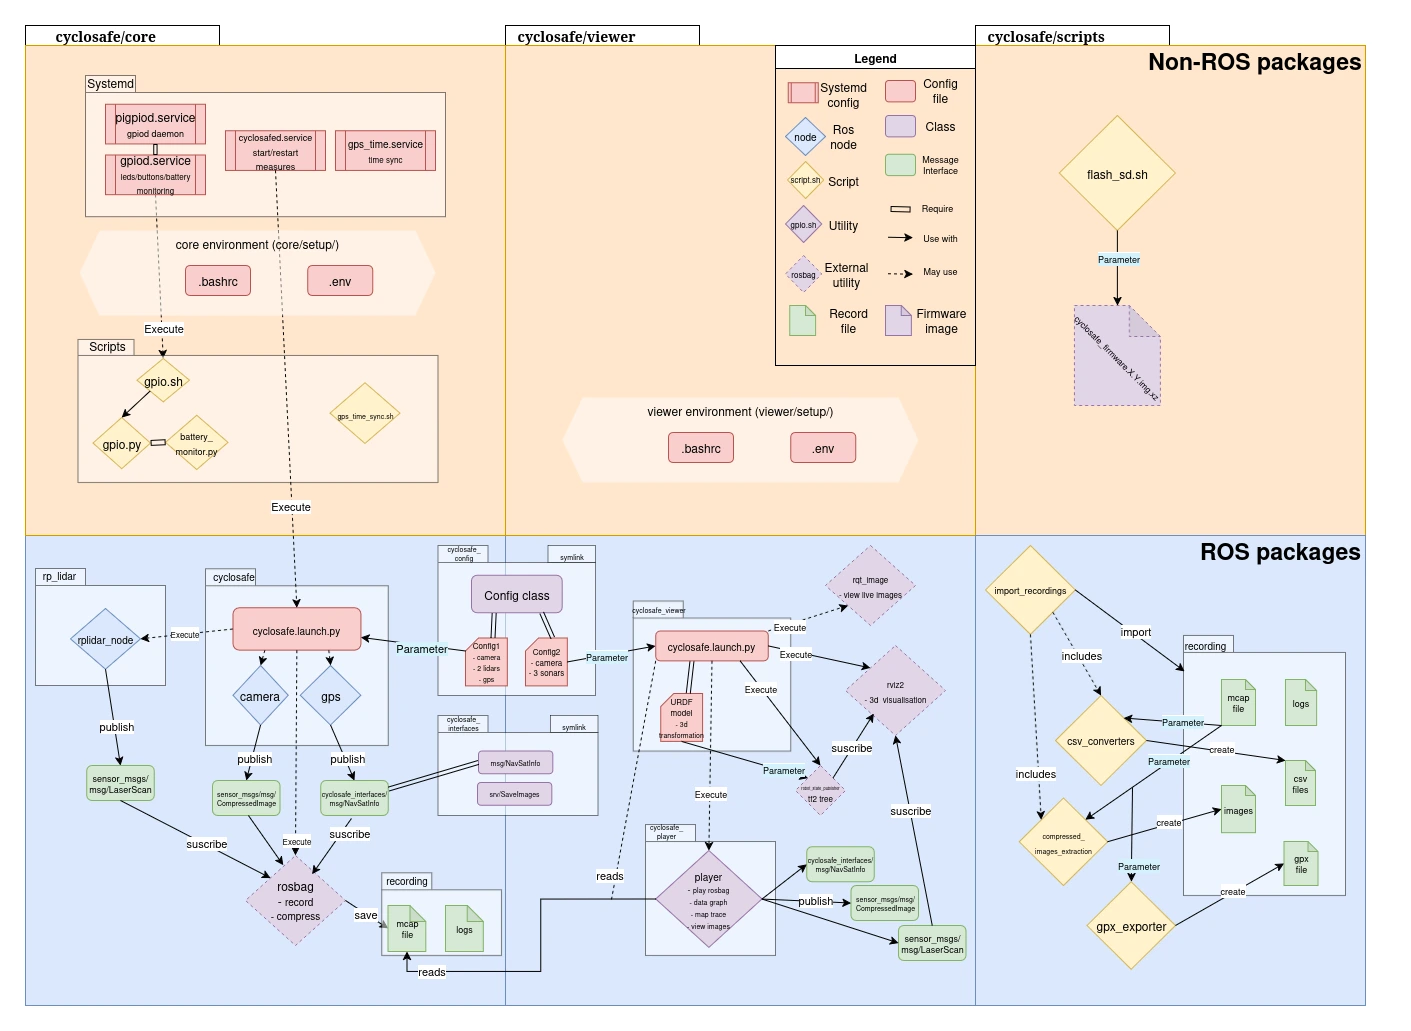
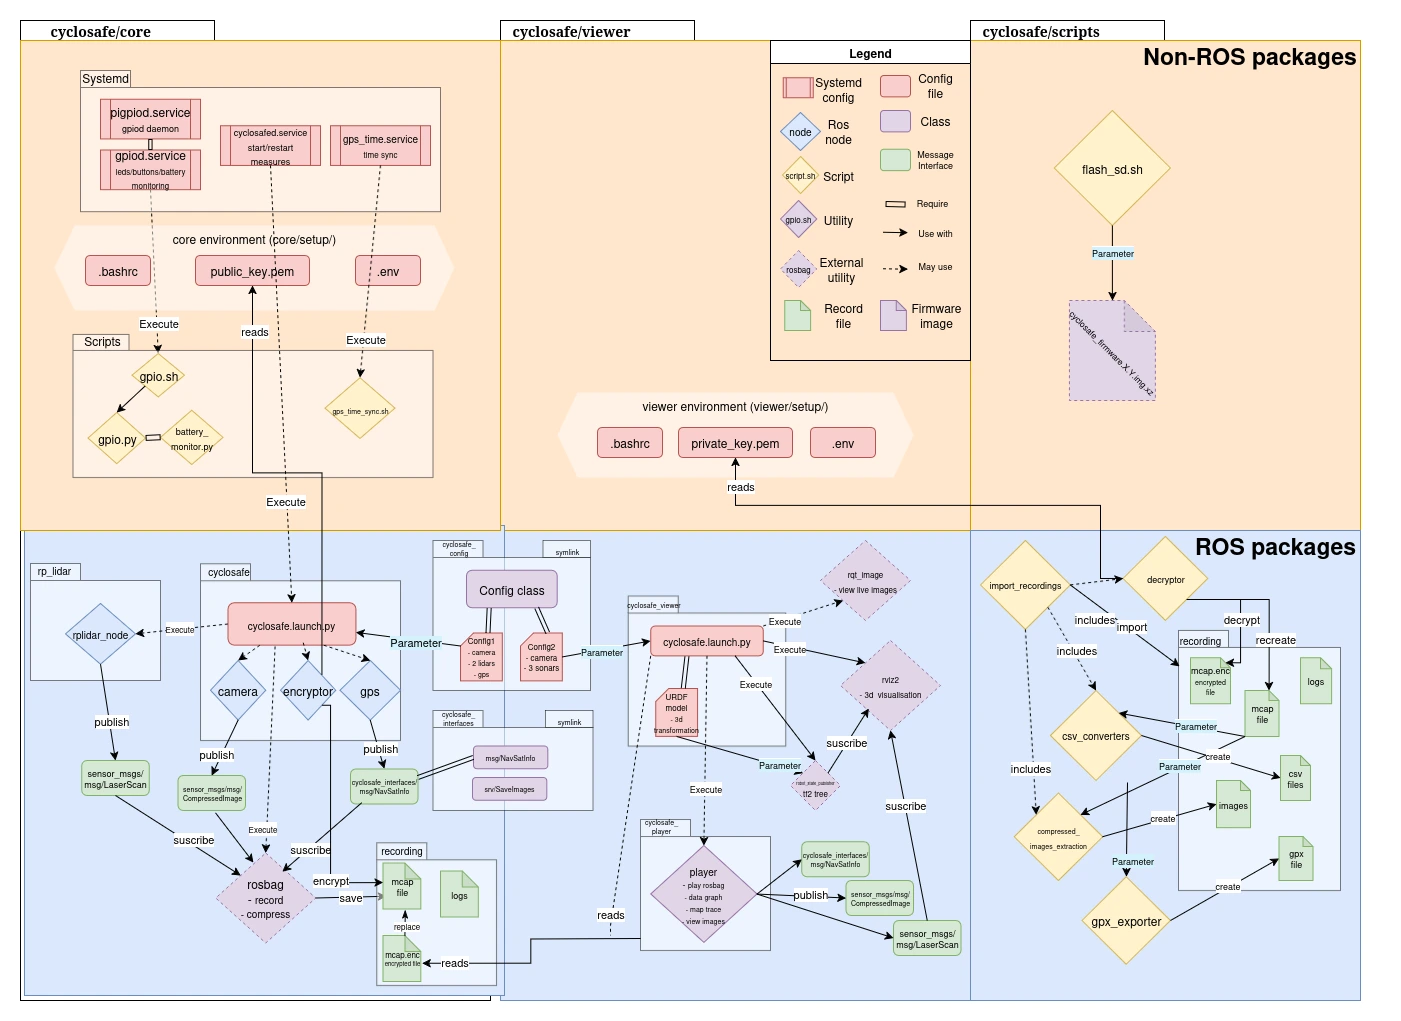
readme and diagrams updated to documente encryption

diff --git a/core/src/cyclosafe/README.md b/core/src/cyclosafe/README.md
@@ -6,6 +6,7 @@ Contient :
 - l'ensemble des noeuds de capteur écrits en python, à savoir :
 	- [**noeud gps**](#gpspy) publiant des *cyclosafe_interfaces/msg/NavSatInfo*
 	- [**noeud caméra**](#camera_pipy) publiant des *sensor_msgs/msg/CompressedImage* sur le topic ***
+	- [**noeud d'encryption**](src/cyclosafe/README.md#encryptor) : surveille les rosbag créés dans un dossier donné, les compresse et les encrypte au fur et à mesure qu'ils sont créés.
 - l'implémentation de classes utilisées par des noeuds ou d'autres packages :
 	- [**ASerialSensor**](#aserialsensor) : modèle de noeud générique parsant des données envoyées via serial
 	- [**ACamera**](#acamera) : modèle de noeud caméra0
@@ -174,6 +175,57 @@ Obsolete car :
 > - **défaut** : *0.0*
 > - **unité** : secondes depuis l'epoch
 
+## encryptor.py
+
+Surveille les rosbag (fichiers `.mcap`) créés dans un dossier et lorsqu'ils sont stables (leur taille ne bouge plus), les compresse et les encrypte vers un fichier `.mcap.enc`.
+
+Le chiffrement utilisé est un chiffrement RSA + AES. un clé AES de 256 bits est générée pour chaque fichier et utilisée pour crypter la totalité du fichier.
+Cette clé est ensuite cryptée avec la clé public RSA du projet et la clé AES chiffrée est placée en cair dans le header du fichier encrypté. 
+Les fichiers sont compressés avec zstd avant d'être encryptés.
+
+Un header contenant des metadata sur les fichiers d'origine est écrit  au début de chaque fichier `.enc`.
+
+Si l'encryption réussie, le fichier original est **suprimé**.
+
+Ce header contient :
+
+~~~
+'original_name': file_path.name,
+'compression_method': 'zstd',
+'encryption_method': 'RSA-OAEP + AES-256-CBC',
+'key_length': len(encrypted_aes_key),
+'iv_length': len(iv),
+'timestamp': time.time(), #encryption time
+'original_size': original_size,
+'compressed_size': len(data),
+~~~
+
+### Paramètres
+
+> **watch_dir** : string
+> - chemin sur lequel sont surveillés et encryptés les rosbag
+> - **requis**
+
+> **public_key_path** : string
+> - chemin vers le fichier `.pem` contenant la clé RSA publique qui sera utilisée pour chiffrer la clé AES.
+> - **si omis**: la variable d'environnement `$PUBLIC_KEY_PATH` sera lue afin de déterminé le chemin à utiliser.
+
+### Example
+
+~~~
+ros2 run cyclosafe encryptor --ros-args -p watch_dir:=$CYCLOSAFE_RECORD/20250821-111521/bag -p public_key_path:=$PUBLIC_KEY_PATH
+~~~
+
+### Stabilité des bags
+
+Les bags sont encryptés seulement lorsqu'ils sont détectés comme étant **stables**, c'est à dire lorsque leur taille ne varie plus pendant un certain laps de temps. Cet intervalle de temps est défini par défaut à `15s` mais est réduit à `3s` lors de la fermeture du programme.
+
+### Fermeture du programme
+
+Lorsque le noeud est arrêté (par l'utilisateur ou par le système en cas d'un appui sur le bouton d'extinction), il arrête de surveiller les dossiers et fait en sorte d'encrypter les fichiers non encryptés restant dans le dossier. le `stability time` est réduit à `3s`.
+
+Si le programme est fermé alors qu'il n'a pas eu le temps d'encrypter tous les fichiers, les fichiers restants resteront intouchées et  lisibles par l'utilisateur.
+
 # Classes
 
 ## ASerialSensor
@@ -294,21 +346,17 @@ ros2 launch cyclosafe cyclsoafe.launch.py record:=true save:=false
 
 > **record** : str
 > - défaut: **"false""**
-> - si **true**, le programme **rosbag record** sera lancé et l'ensemble des messages publiés par les noeuds seront enregistrés dans un rosbag.
+> - si **true**, le programme **rosbag record** sera lancé et l'ensemble des messages publiés par les noeuds seront enregistrés dans un rosbag compressé. Si `encrypt:=true`, le programme **rosbag record** ne compressera pas les rosbag car c'est à l'encryptor de s'en occuper.
+
+> **encrypt** : str
+> - défaut: **"true""**
+> - si **true**, [le noeud encryptor](#encryptorpy) sera lancé pour compresser et encrypter les bags. Ne peut-être utilisé qu'avec `record:=true`.
 
 > **out_path** : str
 > - défaut: **""**
 > - indique le répertoire d'enregistrement du dossier
 > - si **""**,  le répertoire utilisé correspond à la variable d'environnement **$CYCLOSAFE_RECORD**
 > - le nom du dossier contenant les enregistrement sera: ***out_path/YYYYMMDD-HHMMSS***
-
-> **save** : str
-> - défaut: **"false""**
-> - si **true**, le noeud [**hub**](../cyclosafe_hub/README.md) sera démarré et enregistrera les mesures dans des fichiers isolés au format CSV.
-> - **Obsolete** : non mis à jour depuis longtemps
-> 	- gère les données publiées sous forme de *sensors_msgs/msg/range* et les images
-> 	- ne gère que les données gps publiées sous forme de *sensor_msgs/msg/NavSatFix* (et non de *cyclosafe_interfaces/msg/NavSatInfo*)
-> 	- contrairement au rosbag, ne compresse pas les données
 
 > **log_level** : str
 > - défaut: **"info""**
@@ -340,14 +388,15 @@ La structure de [**cyclosafe.launch.py**](launch/cyclosafe.launch.py) n'est pas 
 1. **Execution de la fonction opaque launch_setup()** avec le contexte (cad. les arguments transmis avec la commande **ros2 launch cyclosafe cyclosafe.launch.py [...args])**
 2. **Résolution des arguments**
 3. **Prise du start_time**, valeur qui sera transmise en paramètre à chacun des noeuds lancés
-4. **Optionnel : lancement de l'enregistrement du rosbag** si l'argument **record** est à **true**
-5. **Optionnel : lancement du noeud hub** si l'argument **save** est à **true**
-6. **Lancement de chaque noeud** à partir de la liste des capteurs importée depuis **config.py**
+4. **Optionnel si l'argument record** est à **true** : 
+      - lancement de l'enregistrement du rosbag avec `ros2 bag record`.
+      - si `encrypt:=true` : lancement du noeud encryptor pour compresser et encrypter les rosbag.
+5. **Lancement de chaque noeud** à partir de la liste des capteurs importée depuis **config.py**
    - les noeuds avec **enable=false** sont ignorés
    - **start_time** est transmis à chaque noeud
    - un délai est éventuellement ajouté en fonction de l'agument **delay**
    - le **log_level** associé au noeud est ajusté sur celui spécifique au noeud, ou à défaut celui de la config
-7. La description finale est renvoyée pour être lancée
+6. La description finale est renvoyée pour être lancée
 
 
 

diff --git a/core/cyclosafe.md b/core/cyclosafe.md
@@ -37,13 +37,8 @@ Noeud central du projet.
 Contient :
 - l'ensemble des noeuds de capteur écrits en python, à savoir :
 	- [**noeud gps**](src/cyclosafe/README.md#gpspy) publiant des *cyclosafe_interfaces/msg/NavSatInfo*
-	- 4 noeuds pour différents sonars  publiant des *sensor_msgs/msg/Range*
-		- [**sonar**](src/cyclosafe/README.md#sonarpy) pour la gamme MaxBotix USB
-		- [**sonar_sr04**](src/cyclosafe/README.md#sonar_sr04py) pour le modèle SR04
-		- [**sonar_lv_pw**](src/cyclosafe/README.md#sonar_lv_pwpy-obsolete) pour la gamme MaxBotix en mesurant la largeur des pulse (PWM)
-		- [**sonar_rs232**](src/cyclosafe/README.md#sonar_rs232py) pour la gamme MaxBotix LV10X0
-	- [**tof_lidar**](src/cyclosafe/README.md#tof_lidarpy) pour le lidar unidirectionnel de Waveshare publiant des *sensor_msgs/msg/Range*
 	- [**noeud caméra**](src/cyclosafe/README.md#camera_pipy) publiant des *sensor_msgs/msg/CompressedImage* sur le topic ***
+	- [**noeud d'encryption**](src/cyclosafe/README.md#encryptorpy) : surveille les rosbag créés dans un dossier donné, les compresse et les encrypte au fur et à mesure qu'ils sont créés.
 - l'implémentation de classes utilisées par des noeuds ou d'autres packages :
 	- [**ASerialSensor**](src/cyclosafe/README.md#aserialsensor) : modèle de noeud générique parsant des données envoyées via serial
 	- [**ACamera**](src/cyclosafe/README.md#acamera) : modèle de noeud caméra0

diff --git a/core/setup/systemd/README.md b/core/setup/systemd/README.md
@@ -20,7 +20,7 @@ C'est le service responsable de lancer la launch description principale de cyclo
 
 S'il est activé (**sudo systemctl enable cyclosafed.service**), les mesures sont prises dès le démarrage du raspberry.
 
-Il lance le script [`launch_wrapper.sh`](../../scripts/launch_wrapper.sh). Il s'agit d'un wrapper pour sourcer l'environnement ROS et executer la commande `ros2 launch cyclosafe cyclosafe.launch.py record:=true save:=false`.
+Il lance le script [`launch_wrapper.sh`](../../scripts/launch_wrapper.sh). Il s'agit d'un wrapper pour sourcer l'environnement ROS et executer la commande `ros2 launch cyclosafe cyclosafe.launch.py record:=true`.
 
 > **Note** : ce service est dépendant du bon fonctionnement des services [**gpiod.service**](#gpiodservice) et [**gps_time.service**](#gps_timeservice).
 

diff --git a/CHANGELOG.md b/CHANGELOG.md
@@ -24,6 +24,11 @@
   - adapted `$EXPECTED_NODE` calculation to handle the encryptor node
 - .env: `$SHUTDOWN_DELAY` default value increased to 10s in order for the encryptor node to finish its encryptions
 - scripts/csv_importer : adapted scripts to be more efficient, simplified module imports
+- core/launch_wrapper.sh : number of node is now checked twice
+
+### Fixed
+
+- core/gpio.sh : last warning check to log when shutdown while cyclosafed.service still active was targetting wrong service name
 
 ## [1.1.1] - 2025-08-14
 
